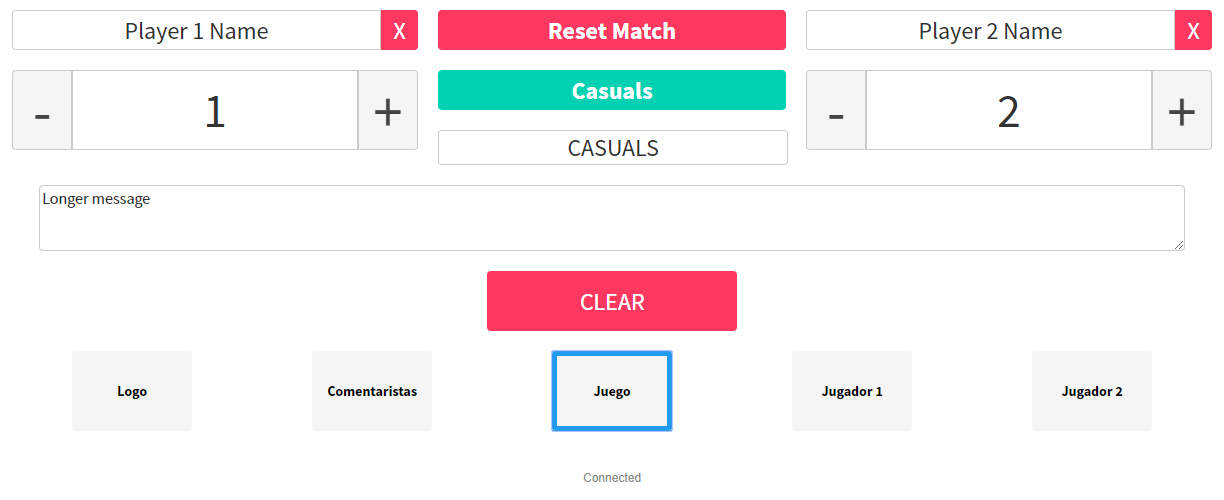
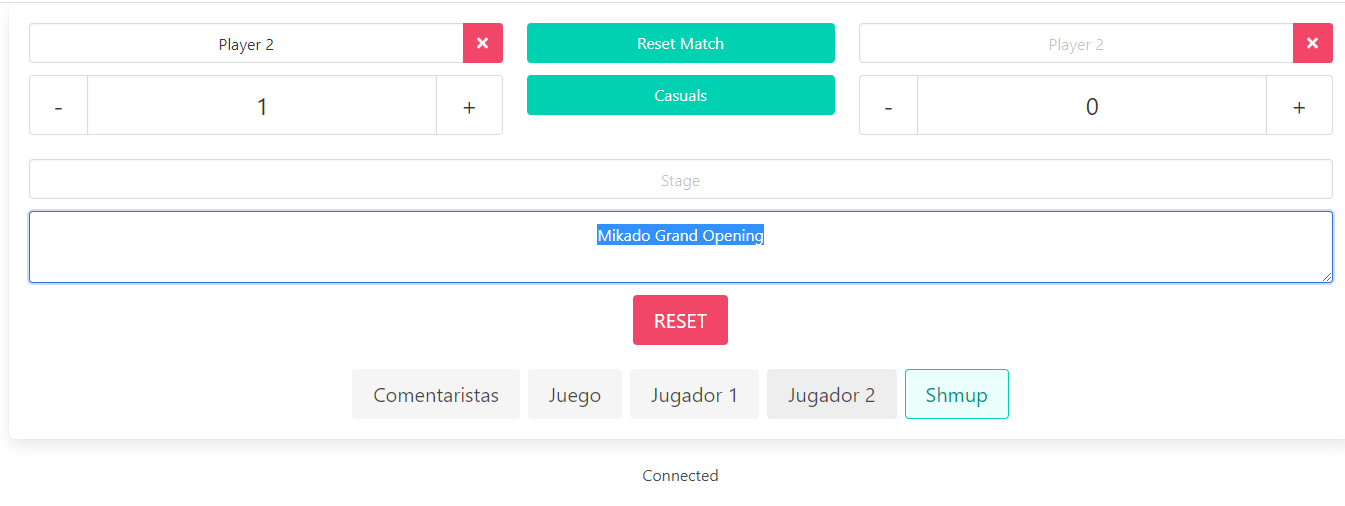
0.1.1
Used BULMA for CSS, now 100% responsive

diff --git a/site/src/index.js b/site/src/index.js
@@ -32,7 +32,7 @@ function sendCommand(params, callback, now) {
 class Player extends React.Component {
   constructor(props) {
     super(props);
-    this.state = {name: '', score: '', id: props.id};
+    this.state = {name: '', score: '0', id: props.id};
   }
 
   changeField(field, value) {
@@ -93,15 +93,30 @@ class Player extends React.Component {
 
   render() {
     return (
-      <div className="columnplayer">
-        <div className="content panel">
-          <input className="name playername" type="text" value={this.state.name} onChange={this.onChangeName.bind(this)}/>
-          <button className="button playerreset" onClick={this.onResetName.bind(this)}>X</button>
+      <div className="column">
+        <div className="field has-addons">
+          <div className="control is-expanded">
+            <input className="input player" placeholder={"Player " + this.state.id} type="text" value={this.state.name} onChange={this.onChangeName.bind(this)}/>
+          </div>
+          <div className="control">
+            <button className="button is-danger" onClick={this.onResetName.bind(this)}>
+              <span className="icon is-small">
+                <i className="fas fa-times"/>
+              </span>
+            </button>
+          </div>
         </div>
-        <div className="content panel">
-          <button className="button buttonsubscore" onClick={this.onSubScore.bind(this)}>-</button>
-          <input className="name playerscore" type="text" value={this.state.score} onChange={this.onChangeScore.bind(this)}/>
-          <button className="button buttonaddscore" onClick={this.onAddScore.bind(this)}>+</button>
+        <div className="content field has-addons">
+          <div className="control">
+            <button className="button is-large has-addons" onClick={this.onSubScore.bind(this)}>-</button>
+            <p/>
+          </div>
+          <div className="control is-expanded">
+            <input className="input is-large has-addons" type="text" value={this.state.score} onChange={this.onChangeScore.bind(this)}/>
+          </div>
+          <div className="control">
+            <button className="button is-large has-addons" onClick={this.onAddScore.bind(this)}>+</button>
+          </div>
         </div>        
       </div>
     );
@@ -190,9 +205,12 @@ class Scoreboard extends React.Component {
     const scenes = [];
     if (this.state.scenes) {
       this.state.scenes.forEach(scene => {
-        var style = 'button buttonscene';
+        var style = 'button is-light';
         if (this.state.selectedScene === scene) {
-          style += ' buttonselected';
+          style += ' is-primary is-outlined';
+        }
+        else {
+          style += '  ';
         }
         scenes.push(<button className={style} key={scene} data-scene={scene} onClick={this.onSelectStage.bind(this)}>{scene}</button>);
       });
@@ -200,35 +218,27 @@ class Scoreboard extends React.Component {
 
     return (
       <div className="container">
-
-        <div className="columns">
-          <Player ref="player1" id="1"/>
-          <div className="columnmiddle">
-            <button className="button content buttonmatch" onClick={this.onResetMatch.bind(this)}>Reset Match</button>
-            <button className="button content buttoncasuals" onClick={this.onCasuals.bind(this)}>Casuals</button>
-            <input className="name content namestage" placeholder="Stage" type="text" value={this.state.stage} onChange={this.onChangeStage.bind(this)} />
+        <div className="box">
+          <div className="columns">
+            <Player ref="player1" id="1"/>
+            <div className="column is-one-quarter">
+              <button className="button is-primary is-fullwidth gap" onClick={this.onResetMatch.bind(this)}>Reset Match</button>
+              <button className="button is-primary is-fullwidth gap" onClick={this.onCasuals.bind(this)}>Casuals</button>
+            </div>
+            <Player ref="player2" id="2"/>
           </div>
-          <Player ref="player2" id="2"/>
-        </div>
-
-        <div className="columns">
-          <div className="columnsingle content">
-            <textarea className="name namemessage" type="text" value={this.state.message} onChange={this.onChangeMessage.bind(this)} />
+          <input className="input is-half-width gap" placeholder="Stage" type="text" value={this.state.stage} onChange={this.onChangeStage.bind(this)} />          
+          <textarea className="textarea is-expanded gap" placeholder="Message" rows="2" type="text" value={this.state.message} onChange={this.onChangeMessage.bind(this)} />
+          <div className="buttons are-medium is-centered">
+            <button className="button is-centered is-danger is-medium gap" onClick={this.onReset.bind(this)}>RESET</button>
           </div>
-        </div>
-        <div className="columns">
-          <div className="columnsingle content">
-            <button className="button buttonclear" onClick={this.onReset.bind(this)}>CLEAR</button>
+          <div className="buttons are-medium is-centered">
+            {scenes}
           </div>
         </div>
-        <div className="columns content">
-          {scenes}
+        <div className="small-text has-text-centered">
+          {this.state.connected}
         </div>
-        <div className="columns">
-          <div className="columnsingle footer">
-            {this.state.connected}
-          </div>
-        </div>        
       </div>
     );
   }

diff --git a/site/src/index.css b/site/src/index.css
@@ -1,164 +1,11 @@
-body {
-  font: 20px "Open Sans", 
-     "HelveticaNeue-Light", 
-     "Helvetica Neue Light", 
-     "Helvetica Neue", 
-     Helvetica, Arial, 
-     "Lucida Grande", 
-     Sans-Serif;
-}
-
-.container {
-  max-width: 1200px;
-  padding: 20px;
-  margin: 0 auto;
-}
-
-.columns {
-  display: flex;
-}
-
-.columnplayer {
-  margin: 0 auto;
-  width: 35%;
-}
-
-.columnmiddle {
-  padding-left: 20px;
-  padding-right: 20px;
-  margin: 0 auto;
-  width: 30%;
-}
-
-.columnsingle {
-  width: 100%;
-  display: inline-grid;
-}
-
-.content {
-  margin-bottom: 20px;
-}
-
-.name {
-  font-family: 'Source Sans Pro', sans-serif;
-  font-size: 24px;
-  color: #333;
-  border: 1px solid #ccc;
-  border-radius: 4px;
+input {
   text-align: center;
 }
 
-.button {
-  font-family: 'Source Sans Pro', sans-serif;
-  font-size: 24px;
+textarea {
   text-align: center;
-  color: #fff;
-  height: 40px;
-  border: 1px transparent;
-  border-radius: 4px;
-  cursor: pointer;
 }
 
-.panel {
-  display: flex;
-}
-
-.playername {
-  width: 100%;
-  border-bottom-right-radius: 0px;
-  border-top-right-radius: 0px;
-}
-
-.playerreset {
-  width: 40px;
-  background-color: #ff3860;
-  border-bottom-left-radius: 0px;
-  border-top-left-radius: 0px;
-}
-
-.playerscore {
-  width: 100%;
-  height: 76px;
-  font-size: 48px;
-  border-radius: 0px;
-}
-
-.buttonsubscore {
-  background-color: hsl(0, 0%, 96%);
-  color: #444;
-  float: left;
-  width: 80px;
-  height: 80px;
-  font-size: 60px;
-  border: 1px solid #ccc;
-  border-bottom-right-radius: 0px;
-  border-top-right-radius: 0px;
-}
-
-.buttonaddscore {
-  background-color: hsl(0, 0%, 96%);
-  color: #444;
-  float: right;
-  width: 80px;
-  height: 80px;
-  font-size: 60px;
-  border: 1px solid #ccc;
-  border-bottom-left-radius: 0px;
-  border-top-left-radius: 0px;
-}
-
-.namestage {
-  width: 100%;
-}
-
-.namemessage {
-  width: 95%;
-  text-align: left;
-  font-size: 16px;
-  height: 60px;
-  margin: 0 auto;
-}
-
-.buttonmatch {
-  width: 100%;
-  font-weight: bold;
-  background-color: #ff3860;
-}
-
-.buttoncasuals {
-  width: 100%;
-  font-weight: bold;
-  background-color: #00d1b2;
-}
-
-.buttonscene {
-  font-size: 14px;
-  font-weight: normal;
-  word-wrap: break-word;
-  width: 120px;
-  height: 80px;
-  font-weight: bold;
-  background-color: hsl(0, 0%, 96%);
-  margin: 0 auto;
-  color: #000;
-}
-
-.buttonselected {
-  border: 5px solid hsl(204, 86%, 53%);
-}
-
-.buttonclear {
-  text-align: center;
-  background-color: #ff3860;
-  margin: 0 auto;
-  width: 250px;
-  height: 60px;
-}
-
-.footer {
-  color: #888;
-  font-size: 12px;
-  text-align: center;
-  padding-top: 20px;
-  margin: 0 auto;
+.gap {
+  margin-bottom: 12px;
 }

diff --git a/site/public/index.html b/site/public/index.html
@@ -4,40 +4,17 @@
     <meta charset="utf-8" />
     <link rel="icon" href="%PUBLIC_URL%/favicon.ico" />
     <meta name="viewport" content="width=device-width, initial-scale=1" />
-    <meta name="theme-color" content="#000000" />
+    <link rel="stylesheet" href="https://cdn.jsdelivr.net/npm/bulma@0.8.0/css/bulma.min.css">
+    <script defer src="https://use.fontawesome.com/releases/v5.3.1/js/all.js"></script>
     <meta
       name="description"
-      content="Web site created using create-react-app"
+      content="Remote-scoreboard"
     />
-    <link rel="apple-touch-icon" href="%PUBLIC_URL%/logo192.png" />
-    <!--
-      manifest.json provides metadata used when your web app is installed on a
-      user's mobile device or desktop. See https://developers.google.com/web/fundamentals/web-app-manifest/
-    -->
     <link rel="manifest" href="%PUBLIC_URL%/manifest.json" />
-    <!--
-      Notice the use of %PUBLIC_URL% in the tags above.
-      It will be replaced with the URL of the `public` folder during the build.
-      Only files inside the `public` folder can be referenced from the HTML.
-
-      Unlike "/favicon.ico" or "favicon.ico", "%PUBLIC_URL%/favicon.ico" will
-      work correctly both with client-side routing and a non-root public URL.
-      Learn how to configure a non-root public URL by running `npm run build`.
-    -->
-    <title>React App</title>
+    <title>Remote Scoreboard</title>
   </head>
   <body>
     <noscript>You need to enable JavaScript to run this app.</noscript>
     <div id="root"></div>
-    <!--
-      This HTML file is a template.
-      If you open it directly in the browser, you will see an empty page.
-
-      You can add webfonts, meta tags, or analytics to this file.
-      The build step will place the bundled scripts into the <body> tag.
-
-      To begin the development, run `npm start` or `yarn start`.
-      To create a production bundle, use `npm run build` or `yarn build`.
-    -->
   </body>
 </html>

diff --git a/README.md b/README.md
@@ -1,13 +1,14 @@
 # remote-scoreboard
-A remote scoreboard streaming tool, especially designed for PvP matches with scoring.
+A remote scoreboard streaming tool, especially designed for PvP matches with scoring (ie fighting games).
 It allows modifying text files linked to overlays from a local or remote PC, via a nodejs service, which serves both the site and the api.
-Additionaly, it can connect to an OBS via obs-websocket plugin (https://github.com/Palakis/obs-websocket) to receive a list of available scenes, displaying them as buttons and allow selecting it from the app.
+Additionaly, it can connect to an OBS via obs-websocket plugin (https://github.com/Palakis/obs-websocket) to receive a list of available scenes, displaying them as buttons and allow selecting them from the app.
+The site is built using React and Bulma, and is 100% responsive, so you can even control your streaming with your phone, similar to a Stream Deck.
 
-TLDR; You can control your streaming remotely from another PC or tablet, in a kind of expanded Stream Deck, where you can control score, set names, stage, messages and even select the current scene.
+TLDR; You can control your streaming remotely from another PC/tablet/phone, and modify names, score, stage, messages and select the current stremaing scene (OBS only).
 
 # usage
-Downloading should be enough, it's already packed (made with React) and you just need to 'npm install' and 'npm run start'
-Open a browser and point to the machine where this is running, ie http://192.168.1.50:3000/index.html (or localhost if same PC). Only tested on Chrome.
+If you want to just use it, download an already packed release (currently 0.1.1), do 'npm install' then 'npm run start'.
+Open a browser and point to the machine where this is running, ie http://192.168.1.50:3000/index.html (or localhost if same PC).
 
 You can edit a few options via a cfg.ini file
 
@@ -30,5 +31,4 @@ message.txt # additional message, usually while in rest mode, or to send some ad
 - Add some security to prevent anyone else from connecting
 - Auto reconnect to OBS if not available at init time
 - Receive the contents of all values at login time, and fill the client properly
-- Use BULMA or any other fancy CSS for simpler and responsive site (would be nice if it fits a phone too)
 - Allow more OBS options, as obs-websocket exposes ALL the API
